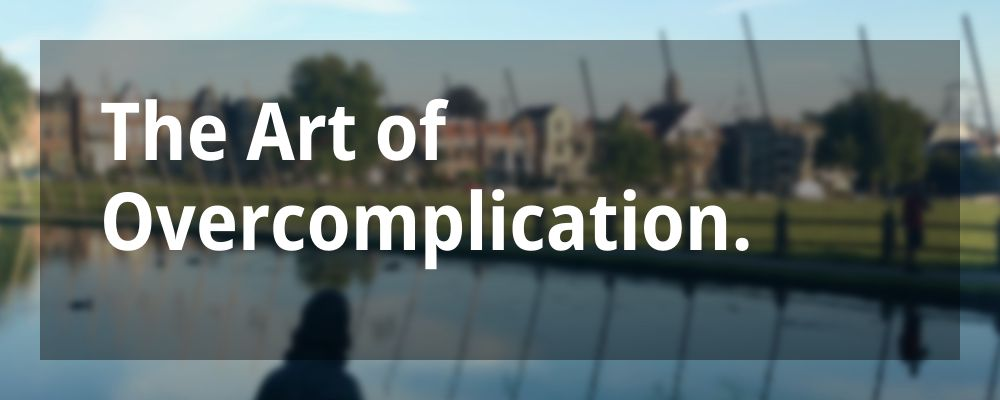
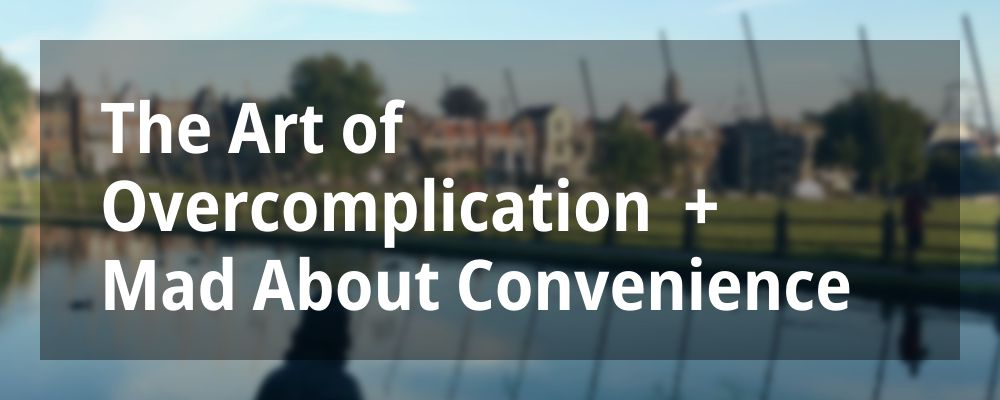
Continue work on the art of overcomplication, set checking language to en rather than en-us

Changed region(s): [[0.093, 0.45, 0.868, 0.78], [0.093, 0.24, 0.465, 0.42]]

diff --git a/content/posts/the_art_of_overcomplication/index.md b/content/posts/the_art_of_overcomplication/index.md
@@ -1,5 +1,5 @@
 ---
-title: "The Art of Overcomplication"
+title: "The Art of Overcomplication + Mad About Convenience"
 date: 2023-10-16T23:13:09+02:00
 draft: true
 weight: 0
@@ -29,6 +29,17 @@ For a practical example, take my development environment. I have settled on usin
 
 So I wanted a Linux development environment that ideally I could use from my Windows desktop. Not wanting to kludge around with local VMs I set up a VM on my Proxmox server, one with a graphical environment. And to connect to this I've tried a plethora of tools, each with their complications and/or high cost for an individual. I spent weeks trying these tools, trying to work with them and figuring out the latency is simply not comfortable to work with. And I know these tools can perform better, but my network uses a wireless backhaul and using something network based simply wasn't working out for me.
 
-You know what I ended up going with? Laptop I already had, an HDMI cable, and the program Synergy to share a keyboard and mouse between Windows and Linux. No high costs spare for the initial purchase of the laptop. And of course 0 latency as opposed to the remote access tools I had tried. 
+New plan: Laptop I already had, an HDMI cable, and the program Synergy to share a keyboard and mouse between Windows and Linux. No high costs spare for the initial purchase of the laptop. And of course 0 latency as opposed to the remote access tools I had tried. 
 
-And as it turns out port forwarding through VS Code is pretty rubbish on Linux as well.
+As it turns out port forwarding through VS Code is pretty rubbish on Linux as well. So is trying to use a laptop exclusively with an external monitor. You gotta open it up to reach the power button, decrypt your hard drive and then let it boot completely before you can switch to the external monitor. All in all less than a minute of work but it's the kind of effort that makes me think twice about booting up. 
+
+### And finally, bliss
+So, turns out one of the more well-known Chinese brands of mini PCs has a unit that pretty much has exactly the specs of my laptop. That's perfect since my programming usually doesn't end up being very resource intensive. It's not like I'm actually compiling or anything. Oh, and it was on sale, not weird for a chip that is now 3 years old, but it'll do nicely. Now, when I first tried to boot a Kubuntu Live CD I ended up with green screen. That usually points to the GPU being a little silly goofy. And the Windows 11 install it unexpectedly came with (I think they shipped me the more expensive version) wouldn't boot anymore. 
+
+I was ready to register a return but decided to follow the manual's suggestion of clearing the CMOS, for which the unit has a pinhole up front. I fully expected this to not work because the unit was factory new. But lo and behold, Windows booted again and Kubuntu would load properly 🥳 Since then I've also learnt that the little HDMI switcher I have is trash (well I was asking it to do something above spec, so that's my bad.) and either the mini-pc or my USB-C dongle supports either display or USB, not both. But hey, I got a pretty stellar little Linux machine for under 300 euros, so I'm not complaining.  
+
+
+### Experiences over possessions
+Starting 2020 I decided I wanted to experience more, starting with concerts. Well Broadway musical would be another one if they do actually perform them here at some point. Of course, we needn't dwell on what happened in 2020. I got exactly 1 concert in and the others got cancelled. Although, seeing Cage the Elephant was probably the best first concert experience I could've had, and I was in luck because it was the last show of the tour the managed to do.
+
+Then came 2022, and I got to see Modest Mouse live. One of my all-time favourite bands

diff --git a/README.md b/README.md
@@ -8,9 +8,6 @@ Now deployed through GitHub actions.
 
 Command for local development here for my own reference `hugo server --bind 0.0.0.0 --baseURL https://blog.homedev.dy.lan --tlsAuto`
 
-### Image generation
-`./blogimagegen --title "As I was saying" --font fonts/OpenSans_SemiCondensed-Bold.ttf --output ../content/posts/as_i_was_saying/img/header.jpg --fontsize 40 --format jpeg --quality 80 --bgimg bg/sonsbeek.jpg --overlay "0,0,0,10" --frame "0,0,0,100"`
-
 ## Licensing
 All of the 'source' bits such as templates, styles, scripts, configuration etc. are licensed under the MIT license.
 Content, unless otherwise specified, is licensed under the Creative Commons Attribution 4.0 International License.
